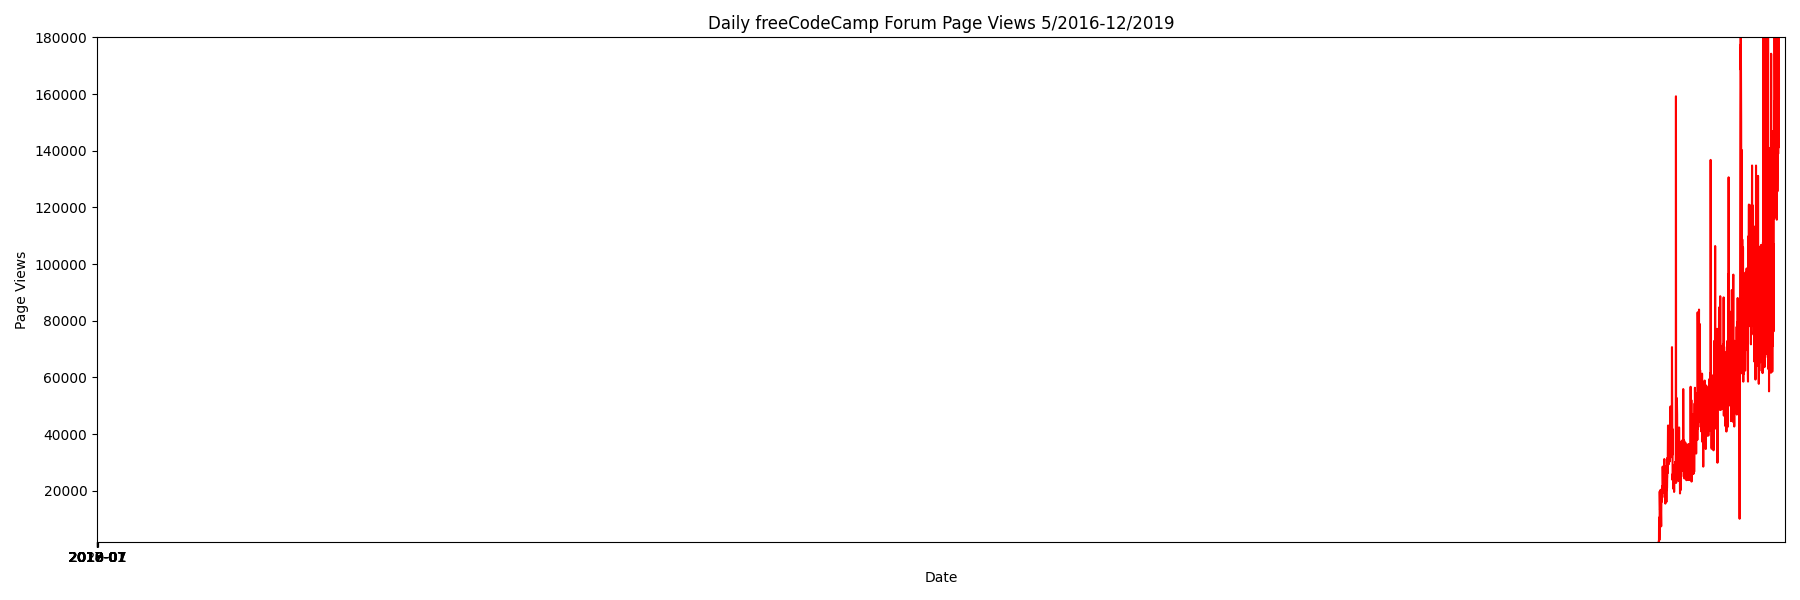
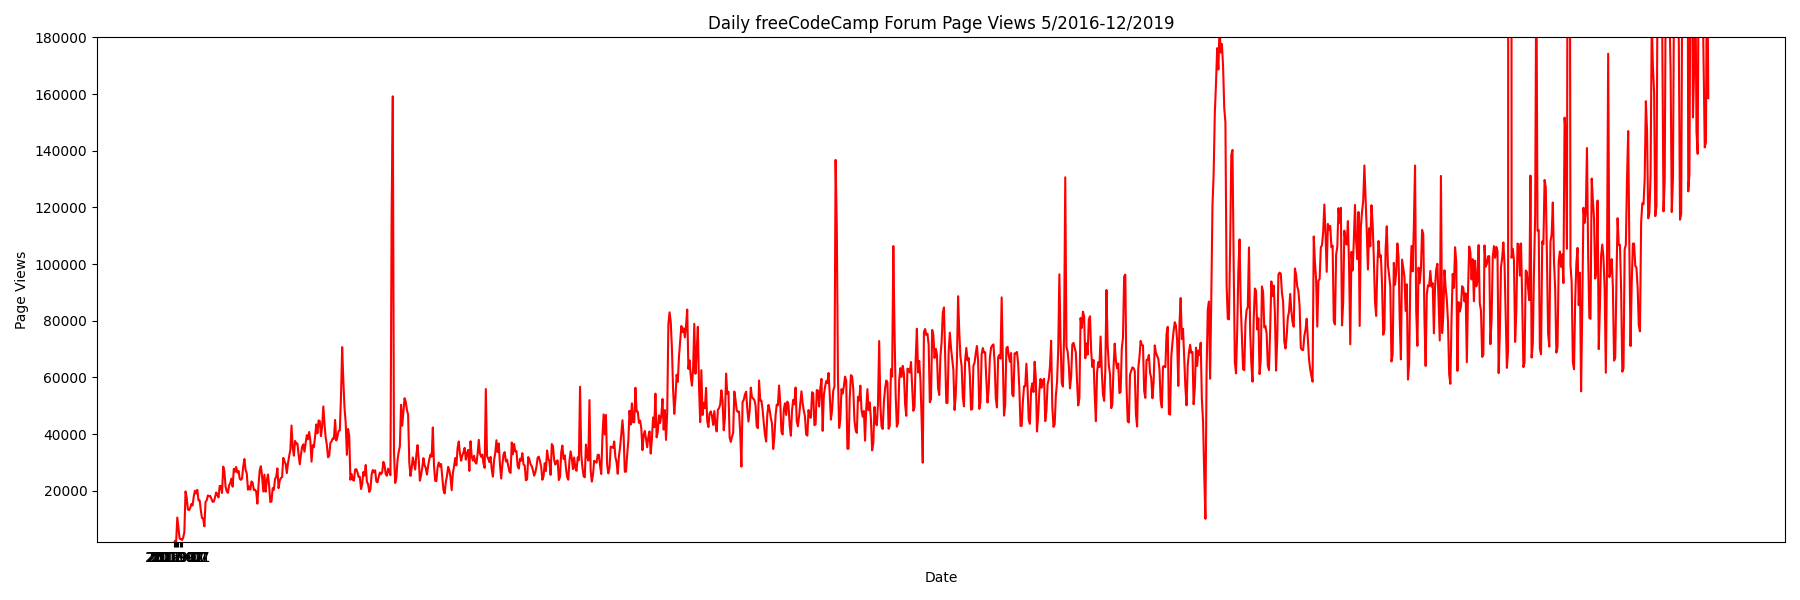
30/12/25 update

Changed region(s): [[0.1556, 0.06, 0.9956, 0.84], [0.0311, 0.78, 0.1556, 0.96]]

diff --git a/time_series_visualizer.py b/time_series_visualizer.py
@@ -4,21 +4,6 @@ import pandas as pd
 from pandas.plotting import register_matplotlib_converters
 register_matplotlib_converters()
 
-# # Import data (Make sure to parse dates. Consider setting index column to 'date'.)
-# df = pd.read_csv("fcc-forum-pageviews.csv")
-# df = df.set_index('date')
-
-# # Clean data
-
-# ds_sorted = df.sort_values(by='value')
-# cutoff_1 = ds_sorted.quantile(0.025)
-# cutoff_2 = ds_sorted.quantile(0.975)
-# df = df[(df['value'] < cutoff_2['value'])
-#                        | (df['value'] <= cutoff_1['value'])
-#                       ]
-# # df['date'] = pd.to_datetime(df.index)
-# df.reset_index(inplace=True)
-
 df = pd.read_csv("fcc-forum-pageviews.csv")
 df = df.set_index('date')
 
@@ -31,14 +16,16 @@ df = df[(df['value'] >= cutoff_1['value'])
                        | (df['value'] <= cutoff_2['value'])
                       ]
 # df['date'] = pd.to_datetime(df.index)
-df.reset_index(inplace=True)
+# df.reset_index(inplace=True)
 
 def draw_line_plot():
+        dff = df.copy() 
+        dff.reset_index(inplace=True)
         dates = pd.date_range(start = '2016-07', end = '2020-01', freq = '6MS')
         date_labels_for_xticks = list(map(lambda x: x.strftime('%Y-%m'), dates))
         position = list(range(0, len(date_labels_for_xticks)))
         fig = plt.figure(figsize=(18, 6)) 
-        plt.plot(df['date'], df['value'], color = 'red') 
+        plt.plot(dff['date'], dff['value'], color = 'red') 
         plt.xticks(position, date_labels_for_xticks, rotation = 0) 
         plt.ylim(2000, 180000)
         plt.yticks(range(20000, 180001, 20000)) 
@@ -57,11 +44,13 @@ def draw_line_plot():
 
 def draw_bar_plot():
     # Copy and modify data for monthly bar plot
-    datess = pd.to_datetime(df['date'])
-    df['date']  = datess
-    df['year'] = df['date'].dt.year
-    df['month'] =  df['date'].dt.month
-    df_bar =  df[['value', 'year', 'month']]
+    dff = df.copy()
+    dff.reset_index(inplace=True)
+    datess = pd.to_datetime(dff['date'])
+    dff['date']  = datess
+    dff['year'] = dff['date'].dt.year
+    dff['month'] =  dff['date'].dt.month
+    df_bar =  dff[['value', 'year', 'month']]
 
     # Draw bar plot
     for_graph_pivot = df_bar.pivot_table(
@@ -94,6 +83,7 @@ def draw_bar_plot():
 def draw_box_plot():
   # Prepare data for box plots (this part is done!)
   df_box = df.copy()
+  df_box.reset_index(inplace=True)
   df_box['date'] = pd.to_datetime(df_box['date']) # Corrected this line
   df_box['year'] = [d.year for d in df_box.date]
   df_box['month'] = [d.strftime('%b') for d in df_box.date]
